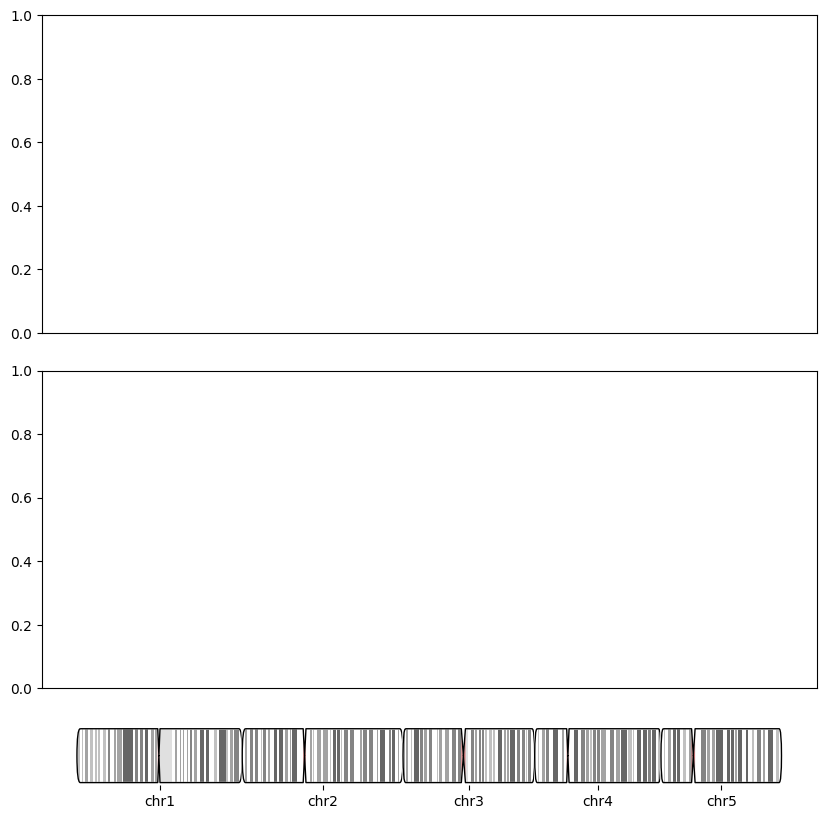
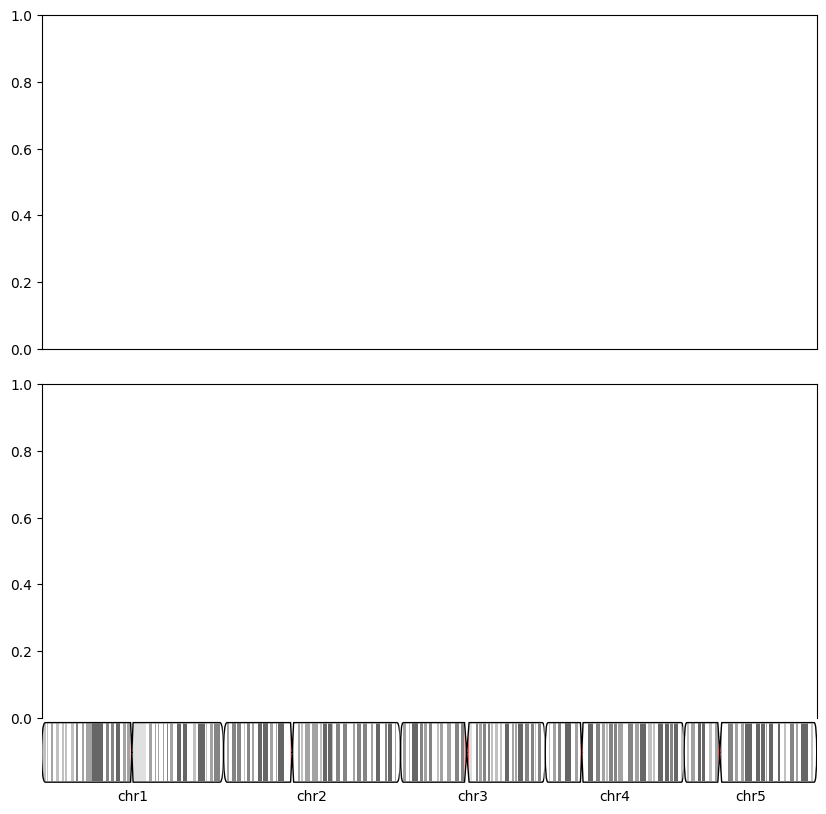
Update ideogram and genome grid functions; add tests for grid generation

diff --git a/src/pyryotype/ideogram.py b/src/pyryotype/ideogram.py
@@ -152,7 +152,6 @@ def plot_ideogram(
     genome: GENOME = GENOME.HG38,
     start: int | None = None,
     stop: int | None = None,
-    zoom: bool = False,
     lower_anchor: int = 0,
     height: int = 1,
     curve: float = 0.02,
@@ -179,7 +178,6 @@ def plot_ideogram(
     :param target: target chromosome to filter and plot.
     :param start: Starting base pair position for the region of interest (optional).
     :param stop: Ending base pair position for the region of interest (optional).
-    :param zoom: Whether to zoom in on the region of interest. If not, only a box will be drawn around that region (default: False).
     :param lower_anchor: Lower anchor point for the ideogram, for outline.
     :param height: Height of the ideogram.
     :param curve: Curve factor for the ideogram edges.
@@ -337,7 +335,7 @@ def plot_ideogram(
         *outside_outline,
         strict=True,
     )
-    mask_patch = PathPatch(MplPath(mask_poly, mask_move), facecolor=(1.0, 1.0, 1.0), alpha=1, color=(1.0, 1.0, 1.0), zorder=2)
+    mask_patch = PathPatch(MplPath(mask_poly, mask_move), facecolor=(1.0, 1.0, 1.0), alpha=1, edgecolor=(1.0, 1.0, 1.0), zorder=2)
     ax.add_patch(mask_patch)
     chr_patch = PathPatch(MplPath(chr_poly, chr_move), fill = None, joinstyle="round", alpha=1, zorder=2)
     ax.add_patch(chr_patch)
@@ -348,36 +346,11 @@ def plot_ideogram(
             start = ax.get_xlim()[0]
         if stop is None:
             stop = ax.get_xlim()[1]
-        if zoom:
-            # Zoom in on the specified region
-            if vertical == Orientation.HORIZONTAL:
-                ax.set_xlim(start, stop)
-            else:
-                ax.set_ylim(start, stop)
+        # Zoom in on the specified region
+        if vertical == Orientation.HORIZONTAL:
+            ax.set_xlim(start, stop)
         else:
-            if vertical == Orientation.HORIZONTAL:
-                r = Rectangle(
-                    (start, lower_anchor - target_region_extent),
-                    width=stop - start,
-                    height=height + 2 * target_region_extent,
-                    fill=False,
-                    edgecolor="r",
-                    linewidth=1,
-                    joinstyle="round",
-                    zorder=3
-                )
-            else:
-                r = Rectangle(
-                    (lower_anchor - target_region_extent, start),
-                    width=height + 2 * target_region_extent,
-                    height=stop - start,
-                    fill=False,
-                    edgecolor="r",
-                    linewidth=1,
-                    joinstyle="round",
-                    zorder=3
-                )
-            ax.add_patch(r)
+            ax.set_ylim(start, stop)
     else:
         if not relative and _arrange_absolute_ax_lims:
             if vertical == Orientation.HORIZONTAL:
@@ -409,6 +382,10 @@ def plot_ideogram(
                 lw=kwargs.get("lw", 1),
             )
             ax.add_patch(r)
+    if vertical == Orientation.VERTICAL:
+        ax.set_xlim(lower_anchor -0.05, height + 0.05)
+    else:
+        ax.set_ylim(lower_anchor -0.05, height + 0.05)
     if adjust_margins:
         # Adjust x-axis margins
         set_xmargin(ax, left=left_margin, right=right_margin)
@@ -534,13 +511,16 @@ def _make_target_grid(
     if relative is None:
         relative = target == target_stop
     cytobands_df = None
-    
+    chr_start = None
+    chr_end = None
     if target != target_stop:
         cytobands_df = get_cytoband_df(genome, relative=False)
         chr_names = cytobands_df["chrom"].unique()
         chr_names = sorted(chr_names, key=chr_to_ord)
         targets = chr_names[chr_names.index(target): chr_names.index(target_stop) + 1]
         cytobands_df = cytobands_df[cytobands_df['chrom'].isin(targets)]
+        chr_start = cytobands_df['chromStart'].min()
+        chr_end = cytobands_df['chromEnd'].max()
         if relative:
             cytobands_df['chromEnd'] = cytobands_df['chromEnd'] - cytobands_df['chromStart'].min()
             cytobands_df['chromStart'] = cytobands_df['chromStart'] - cytobands_df['chromStart'].min()
@@ -551,9 +531,9 @@ def _make_target_grid(
     if fig is None:
         fig = plt.figure(figsize=(subplot_width, subplot_width * height_ratio * num_subplots), facecolor="white")
     if subplot_spec is None:
-        gspec = gs(pfactor * num_subplots + 2 * num_subplots,1)
+        gspec = gs(pfactor * num_subplots + 2 * num_subplots -1, 1, hspace=0.05, wspace=0.05)
     else:
-        gspec = gsFromSubplotSpec(pfactor * num_subplots + 2 * num_subplots, 1, subplot_spec=subplot_spec)
+        gspec = gsFromSubplotSpec(pfactor * num_subplots + 2 * num_subplots - 1, 1, subplot_spec=subplot_spec, hspace=0.05, wspace=0.05)
     axes = []
     for i in range(num_subplots):
         ax = fig.add_subplot(gspec[pfactor * i + i: pfactor * (i + 1) + i, 0])
@@ -573,17 +553,23 @@ def _make_target_grid(
             "genome": genome,
             "label": target,
             "label_placement": ideogram_kwargs.get("label_placement", "height" if len(targets) == 1 else "length"),
-            "start": start if cnt == 0 else None,
-            "stop": stop if cnt == len(targets) - 1 else None,
+            "start": None,
+            "stop": None,
             "relative": ideogram_kwargs.get("relative", False),
             "adjust_margins": False,
         })
         ideogram_ax = plot_ideogram(ideogram_ax, cytobands_df=cytobands_df, _arrange_absolute_ax_lims=False, **ideogram_kwargs)
-    for obj in ideogram_ax.get_children():
-        if hasattr(obj, "set_clip_on"):
-            obj.set_clip_on(False)
+    if start is None:
+        start = chr_start
+    if stop is None:
+        stop = chr_end
+    ax.set_xlim(start, stop) 
+    # for obj in ideogram_ax.get_children():
+    #     if hasattr(obj, "set_clip_on"):
+    #         obj.set_clip_on(False)
     for ax in axes:
         ax.set_xlim(ideogram_ax.get_xlim())
+    axes[-1].spines["bottom"].set_visible(False)
     return fig, axes, ideogram_ax
     
 def make_ideogram_grid(
@@ -595,6 +581,7 @@ def make_ideogram_grid(
     subplot_width=3, 
     height_ratio = 0.5,
     ideogram_factor:float = 0.1,
+    grid_params: dict = None,
     **ideogram_kwargs) -> tuple[plt.Figure, Dict[str, list[Axes]], Dict[str, Axes]]:
     """
     Create a grid of subplots, with an ideogram at the bottom. Meant to plot multiple features on the same chromosome.
@@ -610,7 +597,14 @@ def make_ideogram_grid(
     :return: A tuple containing the figure and a list of axes for the subplots.
     """
     targets = target if isinstance(target, list) else [target]
-    ideogram_kwargs['zoom'] = ideogram_kwargs.get("zoom", False)
+    if grid_params is None:
+        grid_params = dict()
+    grid_params.update({"hspace": grid_params.get('hspace', 0.05),
+                        "top": grid_params.get('top', 0.95),
+                        "bottom": grid_params.get('bottom', 0.05),
+                        "left": grid_params.get('left', 0.1),
+                        "right": grid_params.get('right', 0.95),
+                        })
     
     if len(targets) > 1:
         if isinstance(start, int):
@@ -627,19 +621,28 @@ def make_ideogram_grid(
     
     start = {t: start.get(t, None) for t in targets}
     stop = {t: stop.get(t, None) for t in targets}
-    fig = plt.figure(figsize=(subplot_width, subplot_width * height_ratio * num_subplots * len(targets)), facecolor="white")
-    gs0 = gs(len(targets), 1, figure=fig)
+    fig = plt.figure(figsize=(subplot_width, subplot_width * height_ratio * num_subplots * len(targets)), facecolor="white", )
+    gs0 = gs(len(targets), 1, figure=fig, **grid_params)
     value_axes = {}
     ideogram_axes = {}
     for i, target in enumerate(targets):
         
         _, a0, a1 = _make_target_grid(
-            target, genome=genome, start=start[target], stop=stop[target], 
-            num_subplots=num_subplots, subplot_width=subplot_width, height_ratio=height_ratio, ideogram_factor=ideogram_factor, subplot_spec=gs0[i, 0],
+            target, 
+            genome=genome,
+            start=start[target], 
+            stop=stop[target], 
+            num_subplots=num_subplots, 
+            subplot_width=subplot_width, 
+            height_ratio=height_ratio, 
+            ideogram_factor=ideogram_factor,
+            subplot_spec=gs0[i, 0],
             relative=True,
-            fig=fig, **ideogram_kwargs)
+            fig=fig, 
+            **ideogram_kwargs)
         value_axes[target] = a0
         ideogram_axes[target] = a1
+    fig.tight_layout()
     return fig, value_axes, ideogram_axes
 
 def make_genome_grid(target_start: str, target_stop: str, genome: GENOME = GENOME.HG38, num_subplots=1, subplot_width=10, height_ratio = 0.5, 
@@ -656,7 +659,7 @@ def make_genome_grid(target_start: str, target_stop: str, genome: GENOME = GENOM
     :param ideogram_kwargs: Additional keyword arguments for the ideogram plotting function.
     :return: A tuple containing the figure and a list of axes for the subplots.
     """
-    return _make_target_grid(
+    fig, axes, genome_ax = _make_target_grid(
         target=target_start,
         target_stop=target_stop,
         genome=genome,
@@ -666,6 +669,7 @@ def make_genome_grid(target_start: str, target_stop: str, genome: GENOME = GENOM
         ideogram_factor=ideogram_factor,
         **ideogram_kwargs
     )
+    return fig, axes, genome_ax
 
 if __name__ == "__main__":
     fig, axes = plt.subplots(

diff --git a/tests/test_ideogram_plotting.py b/tests/test_ideogram_plotting.py
@@ -2,7 +2,7 @@ from itertools import chain
 from pathlib import Path
 
 from matplotlib import pyplot as plt
-from pyryotype import plot_ideogram, make_ideogram_grid, make_genome_grid
+from pyryotype import plot_ideogram
 from pyryotype.ideogram import GENOME, Detail, Orientation
 
 OUT_DIR = Path(__file__).parent.parent / "example_outputs"
@@ -57,7 +57,7 @@ def test_simple_vertical_chr1_start_stop():
     fig.savefig(OUT_DIR / "testing_vert_chr1_start_stop.png", bbox_inches="tight")
     
     
-def test_simple_horizontal_chr1_start_stop_zoom():
+def test_simple_horizontal_chr1_start_stop():
     fig, ax = plt.subplots(
         ncols=1,
         nrows=1,
@@ -65,9 +65,9 @@ def test_simple_horizontal_chr1_start_stop_zoom():
         facecolor="white",
     )
 
-    plot_ideogram(ax, target="chr1", left_margin=0, label="", vertical=Orientation.HORIZONTAL, start=150000, stop=50000000, zoom=True)
+    plot_ideogram(ax, target="chr1", left_margin=0, label="", vertical=Orientation.HORIZONTAL, start=150000, stop=50000000)
 
-    fig.savefig(OUT_DIR / "testing_horz_start_stop_zoom.png", bbox_inches="tight")
+    fig.savefig(OUT_DIR / "testing_horz_start_stop.png", bbox_inches="tight")
     
 
 def test_23_vertical_chm13():
@@ -191,48 +191,3 @@ def test_23_horz_chm13_regions():
         )
 
     fig.savefig(OUT_DIR / "testing_horz_23_regions.png", bbox_inches="tight")
-
-
-
-def test_ideogram_grid_generation():
-    fig, axes, ideogram_ax = make_ideogram_grid(
-        target="chr1",
-        num_subplots=2,
-    )
-    fig.savefig(OUT_DIR / "testing_ideogram_grid.png", bbox_inches="tight")
-
-def test_ideogram_grid_generation_three_targets():
-    fig, axes, ideogram_ax = make_ideogram_grid(
-        target=["chr1", "chr2", "chr22"],
-        num_subplots=2,
-    )
-    fig.savefig(OUT_DIR / "testing_ideogram_grid_three_targets.png", bbox_inches="tight")
-
-def test_ideogram_grid_generation_three_targets_with_start_stop():
-    # should raise
-    try:
-        fig, axes, ideogram_ax = make_ideogram_grid(
-            target=["chr1", "chr2", "chr22"],
-            start=0,
-            stop=1,
-            num_subplots=2,
-        )
-        raise ValueError("Should have raised an error")
-    except ValueError as e:
-        pass
-    fig, axes, ideogram_ax = make_ideogram_grid(
-        target=["chr1", "chr2", "chr22"],
-        start={"chr1": 0, "chr2": 0, "chr22": 0},
-        stop={"chr1": 50000000, "chr2": 25000000, "chr22": 1500000},
-        zoom=True,
-        num_subplots=2,
-    )
-    fig.savefig(OUT_DIR / "testing_ideogram_grid_three_targets_with_start_stop.png")
-
-def test_genome_grid():
-    fig, axes, genome_ax = make_genome_grid(
-        target_start="chr1",
-        target_stop="chr5",
-        num_subplots=2,
-    )
-    fig.savefig(OUT_DIR / "testing_genome_grid.png", bbox_inches="tight")

diff --git a/tests/test_ideogram_grid.py b/tests/test_ideogram_grid.py
@@ -1,0 +1,42 @@
+from pathlib import Path
+
+from pyryotype import make_ideogram_grid
+
+OUT_DIR = Path(__file__).parent.parent / "example_outputs"
+
+
+def test_ideogram_grid_generation():
+    fig, axes, ideogram_ax = make_ideogram_grid(
+        target="chr1",
+        num_subplots=2,
+    )
+    fig.savefig(OUT_DIR / "testing_ideogram_grid.png", bbox_inches="tight")
+
+def test_ideogram_grid_generation_three_targets():
+    fig, axes, ideogram_ax = make_ideogram_grid(
+        target=["chr1", "chr2", "chr22"],
+        num_subplots=2,
+    )
+    fig.savefig(OUT_DIR / "testing_ideogram_grid_three_targets.png", bbox_inches="tight")
+
+def test_ideogram_grid_generation_three_targets_with_start_stop():
+    # should raise
+    try:
+        fig, axes, ideogram_ax = make_ideogram_grid(
+            target=["chr1", "chr2", "chr22"],
+            start=0,
+            stop=1,
+            num_subplots=2,
+        )
+        raise ValueError("Should have raised an error")
+    except ValueError as e:
+        pass
+    fig, axes, ideogram_ax = make_ideogram_grid(
+        target=["chr1", "chr2", "chr22"],
+        start={"chr1": 0, "chr2": 0, "chr22": 0},
+        stop={"chr1": 50000000, "chr2": 25000000, "chr22": 1500000},
+        num_subplots=2,
+    )
+    fig.savefig(
+        OUT_DIR / "testing_ideogram_grid_three_targets_with_start_stop.png",
+        bbox_inches="tight")

diff --git a/tests/test_genome_grid.py b/tests/test_genome_grid.py
@@ -1,0 +1,13 @@
+from pathlib import Path
+
+from pyryotype import make_genome_grid
+
+OUT_DIR = Path(__file__).parent.parent / "example_outputs"
+
+def test_genome_grid():
+    fig, axes, genome_ax = make_genome_grid(
+        target_start="chr1",
+        target_stop="chr5",
+        num_subplots=2,
+    )
+    fig.savefig(OUT_DIR / "testing_genome_grid.png", bbox_inches="tight")
